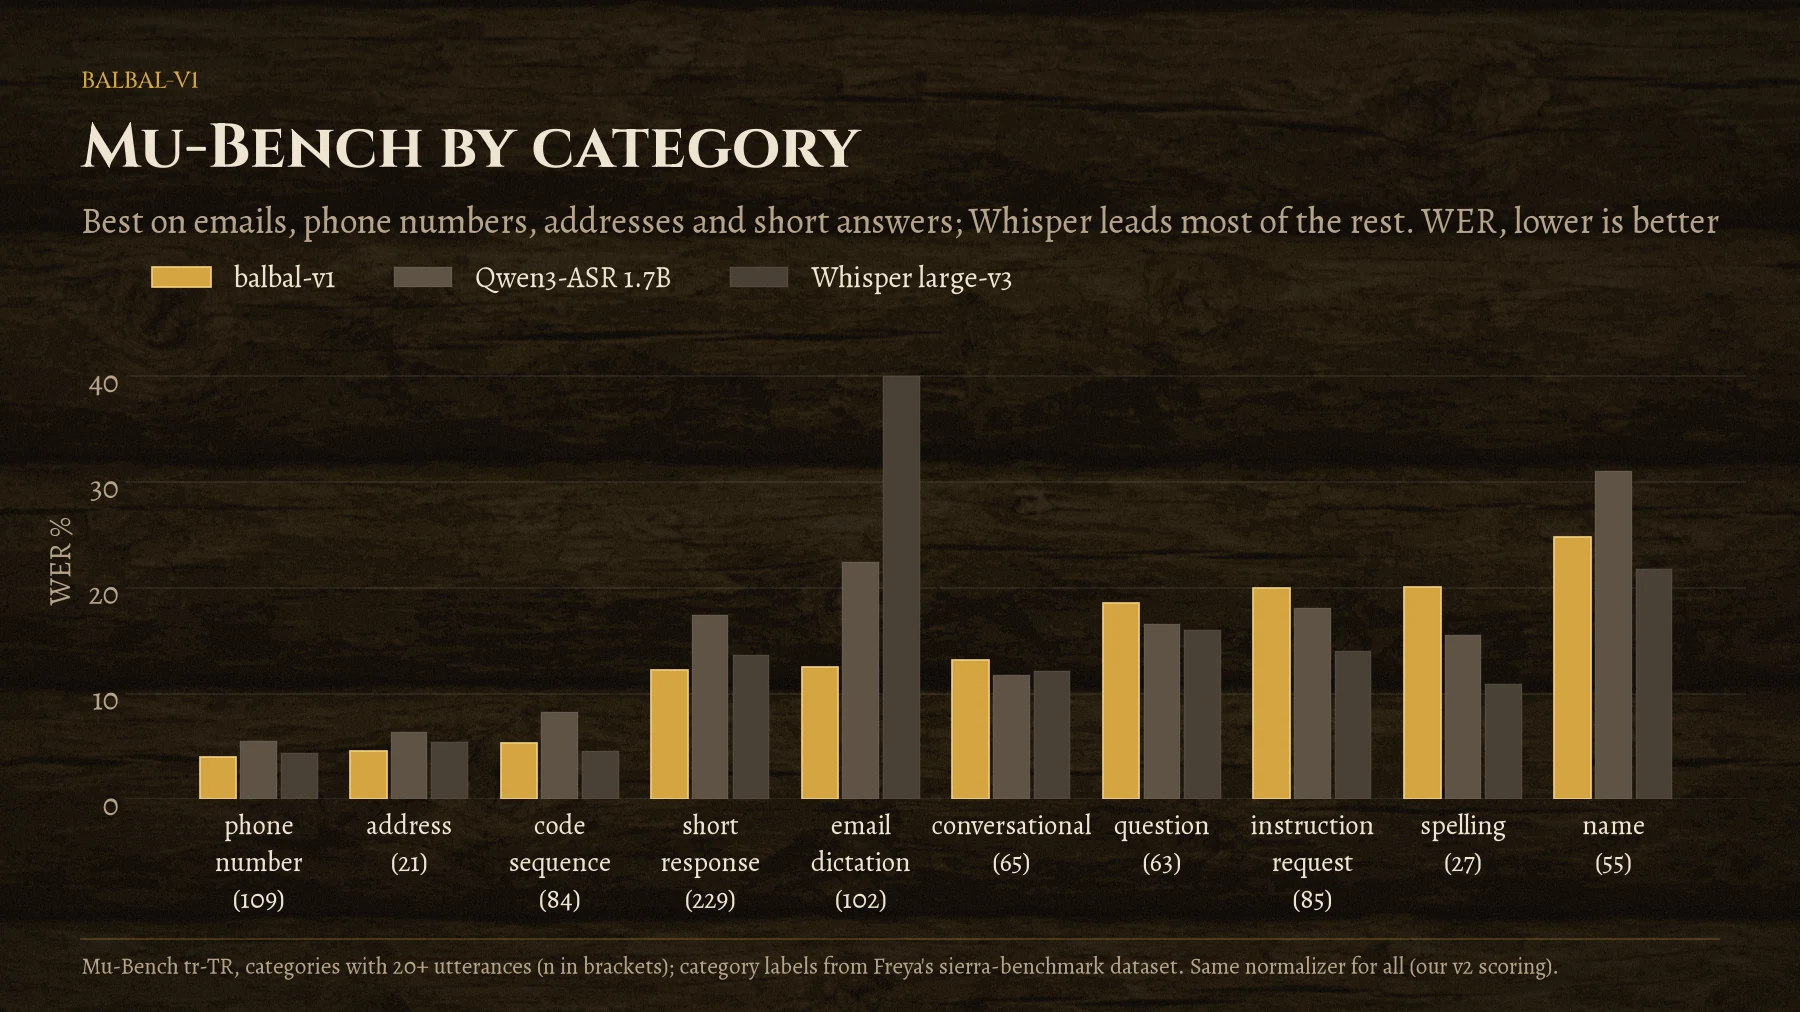
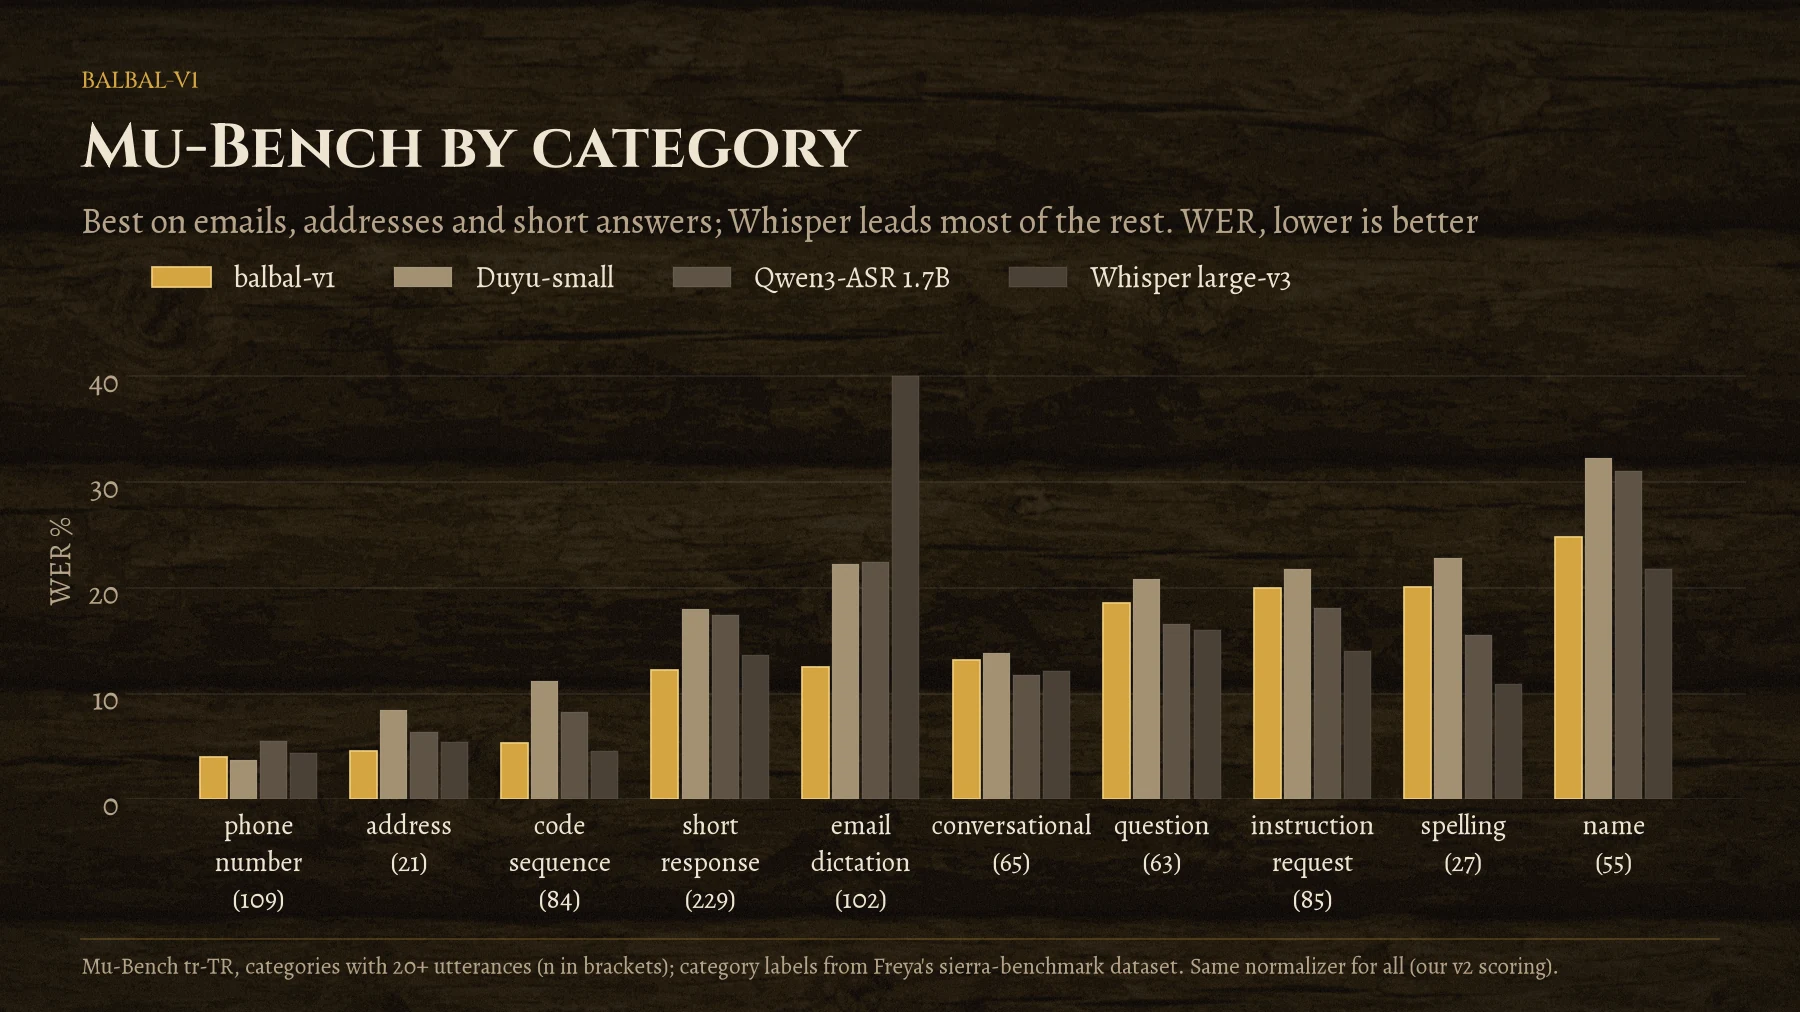
balbal: add Duyu-small to charts, official Mu-Bench score

diff --git a/balbal-blog/index.html b/balbal-blog/index.html
@@ -381,7 +381,7 @@ document.addEventListener('click', e => {
   </figure>
   <h3>Diğer modellerle karşılaştırma</h3>
   <p>Açık ağırlıklı modellerin hepsini aynı klipler ve v2 kuralıyla kendim çalıştırdım. Mu-Bench'te (v2, ITN'siz) balbal-v1 <strong>%11,78</strong> ile hepsinin önünde. En yakın rakipler Qwen3-ASR 1.7B (%13,95) ve Whisper large-v3 (%14,92); ikisi de yüz kat büyük. FLEURS'ta durum farklı: Whisper large-v3 (%3,71) ve turbo (%4,07) açık ara önde. balbal-v1'in %6,54'ü Qwen3-ASR 1.7B (%6,52) ile aynı düzeyde. FLEURS temiz, okunmuş Wikipedia cümlelerinden oluşuyor ve büyük modellerin geniş dünya bilgisi burada daha çok işe yarıyor.</p>
-  <p>Sonradan bir model daha ekledim: <a href="https://huggingface.co/KaanAydinli/Duyu-small" target="_blank" rel="noopener">Duyu-small</a>. Türkçe ve İngilizce tanıyan, 19,3 milyon aktif parametreli açık ağırlıklı bir model. Model kartına göre kodlayıcı tasarımı (paylaşımlı geçişler ve seyrek akustik bellek) balbal'dan alınmış; üstüne dikkat tabanlı bir çözücü ve iki dilli bir sözlük eklenmiş. Aynı klipler ve v2 kuralıyla Mu-Bench'te <strong>%15,39</strong>, FLEURS'ta <strong>%6,62</strong> hata yapıyor. Duyu-small grafiklerde yok; sayıları aşağıdaki tablolarda.</p>
+  <p>Sonradan bir model daha ekledim: <a href="https://huggingface.co/KaanAydinli/Duyu-small" target="_blank" rel="noopener">Duyu-small</a>. Türkçe ve İngilizce tanıyan, 19,3 milyon aktif parametreli açık ağırlıklı bir model. Model kartına göre kodlayıcı tasarımı (paylaşımlı geçişler ve seyrek akustik bellek) balbal'dan alınmış; üstüne dikkat tabanlı bir çözücü ve iki dilli bir sözlük eklenmiş. Aynı klipler ve v2 kuralıyla Mu-Bench'te <strong>%15,39</strong>, FLEURS'ta <strong>%6,62</strong> hata yapıyor. Resmi Mu-Bench değerlendirmesinde (GPT-4.1 hakemli) kelime hata oranı <strong>%15,70</strong>, ciddi hata oranı %35,22 (balbal-v1: %11,93 ve %25,18).</p>
   <figure>
     <img src="/balbal/img/2-mubench-open-models.webp" alt="Mu-Bench'te diğer modellerin v2 WER karşılaştırması; balbal-v1 en düşük hata oranıyla en üstte." loading="lazy" width="1800" height="1012">
     <figcaption><b>Mu-Bench, diğer modeller (v2 puanlama).</b> Her model aynı 846 klip üzerinde aynı kuralla puanlandı.</figcaption>
@@ -395,8 +395,8 @@ document.addEventListener('click', e => {
   <h3>Kategori bazında</h3>
   <p>Kategoriler Mu-Bench'in kendisinden gelmiyor. Freya'nın aynı ses ve metinleri içeren <a href="https://huggingface.co/datasets/freyavoice/sierra-benchmark" target="_blank" rel="noopener">sierra-benchmark</a> veri setindeki kategori etiketlerini kullandım. balbal-v1 telefon numaralarında (%3,96), adreslerde (%4,53) ve kod dizilerinde (%5,34) güçlü. İsimler (%24,84), harf harf okuma (%20,06) ve istek cümleleri (%19,98) hâlâ zayıf noktaları.</p>
   <figure>
-    <img src="/balbal/img/7-mubench-categories.webp" alt="Mu-Bench kategorilerine göre WER: balbal-v1, Qwen3-ASR ve Whisper large-v3 karşılaştırması." loading="lazy" width="1800" height="1012">
-    <figcaption><b>Mu-Bench kategorileri (v2 puanlama).</b> Kategori etiketleri Freya'nın sierra-benchmark veri setinden. Grafikte yalnızca en az 20 klibi olan kategoriler var; parantez içindeki sayılar klip sayısı. E-posta, telefon, adres ve kısa cevaplarda balbal-v1 önde; kalanların çoğunda Whisper large-v3.</figcaption>
+    <img src="/balbal/img/7-mubench-categories.webp" alt="Mu-Bench kategorilerine göre WER: balbal-v1, Duyu-small, Qwen3-ASR ve Whisper large-v3 karşılaştırması." loading="lazy" width="1800" height="1012">
+    <figcaption><b>Mu-Bench kategorileri (v2 puanlama).</b> Kategori etiketleri Freya'nın sierra-benchmark veri setinden. Grafikte yalnızca en az 20 klibi olan kategoriler var; parantez içindeki sayılar klip sayısı. E-posta, adres ve kısa cevaplarda balbal-v1 önde; telefonda Duyu-small ile neredeyse eşit (%3,96'ya %3,76). Kalanların çoğunda Whisper large-v3 önde.</figcaption>
   </figure>
   <div class="table-wrap">
     <table class="scores cats">
@@ -470,7 +470,7 @@ document.addEventListener('click', e => {
         <tr><td>Qwen3-ASR 1.7B (Modal)</td><td>13,91</td><td>14,76<small>*</small></td><td>30,61<small>*</small></td><td>—</td></tr>
         <tr><td>Qwen3-ASR 1.7B</td><td>13,95</td><td>—</td><td>—</td><td>6,52</td></tr>
         <tr><td>Whisper large-v3</td><td>14,92</td><td>—</td><td>—</td><td>3,71</td></tr>
-        <tr><td><a href="https://huggingface.co/KaanAydinli/Duyu-small" target="_blank" rel="noopener">Duyu-small</a></td><td>15,39</td><td>—</td><td>—</td><td>6,62</td></tr>
+        <tr><td><a href="https://huggingface.co/KaanAydinli/Duyu-small" target="_blank" rel="noopener">Duyu-small</a></td><td>15,39</td><td>15,70</td><td>35,22</td><td>6,62</td></tr>
         <tr><td>xAI Grok STT</td><td>15,69</td><td>15,94<small>*</small></td><td>34,04<small>*</small></td><td>—</td></tr>
         <tr><td>omniASR LLM 7B</td><td>18,35</td><td>—</td><td>—</td><td>5,31</td></tr>
         <tr><td>Microsoft Azure Speech</td><td>18,65</td><td>14,02<small>*</small></td><td>30,73<small>*</small></td><td>—</td></tr>
@@ -500,7 +500,7 @@ document.addEventListener('click', e => {
   <h2 id="hiz"><span class="n">8</span>Hız</h2>
   <p>Hızı tüm modeller için aynı yöntemle ölçtüm. 100 klip kullandım (50 FLEURS, 50 Mu-Bench). Her model 8 işlemci çekirdeğinde, batch boyutu 1 ile, klipleri tek tek işledi. Ölçülen süre, ham sesin girmesinden metnin çıkmasına kadar geçen süre: öznitelik çıkarma, ağ ve (balbal için) dil modelli ışın araması dahil. Makinenin hızı günden güne değişebildiği için bütün modelleri aynı oturumda ölçtüm.</p>
   <p>balbal-v1, ONNX Runtime (fp32) ile <strong>gerçek zamanın ~96 katı</strong> hızda çalışıyor; dört ayrı ölçüm 95,8× ile 97,3× arasında çıktı. Aynı koşullarda Whisper large-v3 0,91×, Qwen3-ASR 1.7B 0,84× hızda. Yani bu iki model işlemcide gerçek zamana bile yetişemiyor. Karşılaştırmanın tamamı yazının başındaki grafikte.</p>
-  <p><a href="https://huggingface.co/KaanAydinli/Duyu-small" target="_blank" rel="noopener">Duyu-small</a>'yi sonradan, ayrı bir oturumda aynı yöntemle ölçtüm. Modelin önerdiği ayarlarla (fp32, dikkat tabanlı çözücü, ışın 5) gerçek zamanın <strong>30 katı</strong> hızda çalışıyor. Aynı oturumda balbal-v1 108× çıktı; yani balbal-v1 yaklaşık 3,6 kat daha hızlı.</p>
+  <p><a href="https://huggingface.co/KaanAydinli/Duyu-small" target="_blank" rel="noopener">Duyu-small</a>'yi sonradan, ayrı bir oturumda aynı yöntemle ölçtüm. Modelin önerdiği ayarlarla (fp32, dikkat tabanlı çözücü, ışın 5) gerçek zamanın <strong>30 katı</strong> hızda çalışıyor. Aynı oturumda balbal-v1 108× çıktı; yani balbal-v1 yaklaşık 3,6 kat daha hızlı. Grafikte Duyu-small bu oranla diğer ölçümlerin oturumuna taşınmış halde (27×) yer alıyor.</p>
 
   <h2 id="dersler"><span class="n">9</span>Hatalar ve dersler</h2>
   <div class="lessons">
@@ -749,7 +749,7 @@ document.addEventListener('click', e => {
   </figure>
   <h3>Against other models</h3>
   <p>I ran all the open-weight models myself on the same clips with the v2 rule. On Mu-Bench (v2, no ITN) balbal-v1 leads them all with <strong>11.78%</strong>. The closest are Qwen3-ASR 1.7B (13.95%) and Whisper large-v3 (14.92%), both a hundred times larger. FLEURS is a different story: Whisper large-v3 (3.71%) and turbo (4.07%) are clearly ahead. balbal-v1's 6.54% is on par with Qwen3-ASR 1.7B (6.52%). FLEURS consists of clean, read Wikipedia sentences, where the broad world knowledge of large models helps more.</p>
-  <p>One more model, added later: <a href="https://huggingface.co/KaanAydinli/Duyu-small" target="_blank" rel="noopener">Duyu-small</a>, an open-weight Turkish + English model with 19.3 million active parameters. Its model card says its encoder design (shared passes and the sparse acoustic memory) is taken from balbal, with an attention decoder and a bilingual vocabulary added on top. On the same clips with the v2 rule it scores <strong>15.39%</strong> on Mu-Bench and <strong>6.62%</strong> on FLEURS. Duyu-small is not in the charts; its numbers are in the tables below.</p>
+  <p>One more model, added later: <a href="https://huggingface.co/KaanAydinli/Duyu-small" target="_blank" rel="noopener">Duyu-small</a>, an open-weight Turkish + English model with 19.3 million active parameters. Its model card says its encoder design (shared passes and the sparse acoustic memory) is taken from balbal, with an attention decoder and a bilingual vocabulary added on top. On the same clips with the v2 rule it scores <strong>15.39%</strong> on Mu-Bench and <strong>6.62%</strong> on FLEURS. In the official Mu-Bench evaluation (GPT-4.1 judge) it gets <strong>15.70%</strong> WER and 35.22% significant WER (balbal-v1: 11.93% and 25.18%).</p>
   <figure>
     <img src="/balbal/img/2-mubench-open-models.webp" alt="v2 WER of other models on Mu-Bench; balbal-v1 at the top with the lowest error rate." loading="lazy" width="1800" height="1012">
     <figcaption><b>Mu-Bench, other models (v2 scoring).</b> Every model was scored on the same 846 clips with the same rule.</figcaption>
@@ -763,8 +763,8 @@ document.addEventListener('click', e => {
   <h3>By category</h3>
   <p>The categories do not come from Mu-Bench itself. I used the category labels from Freya's <a href="https://huggingface.co/datasets/freyavoice/sierra-benchmark" target="_blank" rel="noopener">sierra-benchmark</a> dataset, which contains the same audio and text. balbal-v1 is strong on phone numbers (3.96%), addresses (4.53%) and code sequences (5.34%). Names (24.84%), spelling (20.06%) and instruction requests (19.98%) are still its weak spots.</p>
   <figure>
-    <img src="/balbal/img/7-mubench-categories.webp" alt="Mu-Bench WER by category: balbal-v1 versus Qwen3-ASR and Whisper large-v3." loading="lazy" width="1800" height="1012">
-    <figcaption><b>Mu-Bench categories (v2 scoring).</b> Category labels from Freya's sierra-benchmark dataset. Only categories with at least 20 clips are shown; numbers in brackets are clip counts. balbal-v1 leads on email, phone numbers, addresses and short answers; Whisper large-v3 leads most of the rest.</figcaption>
+    <img src="/balbal/img/7-mubench-categories.webp" alt="Mu-Bench WER by category: balbal-v1 versus Duyu-small, Qwen3-ASR and Whisper large-v3." loading="lazy" width="1800" height="1012">
+    <figcaption><b>Mu-Bench categories (v2 scoring).</b> Category labels from Freya's sierra-benchmark dataset. Only categories with at least 20 clips are shown; numbers in brackets are clip counts. balbal-v1 leads on email, addresses and short answers and is about even with Duyu-small on phone numbers (3.96% vs 3.76%); Whisper large-v3 leads most of the rest.</figcaption>
   </figure>
   <div class="table-wrap">
     <table class="scores cats">
@@ -838,7 +838,7 @@ document.addEventListener('click', e => {
         <tr><td>Qwen3-ASR 1.7B (Modal)</td><td>13.91</td><td>14.76<small>*</small></td><td>30.61<small>*</small></td><td>—</td></tr>
         <tr><td>Qwen3-ASR 1.7B</td><td>13.95</td><td>—</td><td>—</td><td>6.52</td></tr>
         <tr><td>Whisper large-v3</td><td>14.92</td><td>—</td><td>—</td><td>3.71</td></tr>
-        <tr><td><a href="https://huggingface.co/KaanAydinli/Duyu-small" target="_blank" rel="noopener">Duyu-small</a></td><td>15.39</td><td>—</td><td>—</td><td>6.62</td></tr>
+        <tr><td><a href="https://huggingface.co/KaanAydinli/Duyu-small" target="_blank" rel="noopener">Duyu-small</a></td><td>15.39</td><td>15.70</td><td>35.22</td><td>6.62</td></tr>
         <tr><td>xAI Grok STT</td><td>15.69</td><td>15.94<small>*</small></td><td>34.04<small>*</small></td><td>—</td></tr>
         <tr><td>omniASR LLM 7B</td><td>18.35</td><td>—</td><td>—</td><td>5.31</td></tr>
         <tr><td>Microsoft Azure Speech</td><td>18.65</td><td>14.02<small>*</small></td><td>30.73<small>*</small></td><td>—</td></tr>
@@ -868,7 +868,7 @@ document.addEventListener('click', e => {
   <h2 id="speed"><span class="n">8</span>Speed</h2>
   <p>I measured speed the same way for every model. I used 100 clips (50 FLEURS, 50 Mu-Bench). Each model processed the clips one by one on 8 CPU cores with batch size 1. The measured time runs from raw audio in to text out: feature extraction, the network and (for balbal) the beam search with the language model included. Because the machine's speed can vary from day to day, I measured all models in the same session.</p>
   <p>balbal-v1 runs at <strong>~96× real time</strong> with ONNX Runtime (fp32); four separate measurements came out between 95.8× and 97.3×. Under the same conditions Whisper large-v3 runs at 0.91× and Qwen3-ASR 1.7B at 0.84×, so these two models cannot even keep up with real time on a CPU. The full comparison is in the chart at the top of this post.</p>
-  <p>I measured <a href="https://huggingface.co/KaanAydinli/Duyu-small" target="_blank" rel="noopener">Duyu-small</a> later, in a separate session, the same way. With its recommended settings (fp32, attention decoder, beam 5) it runs at <strong>30× real time</strong>. In the same session balbal-v1 ran at 108×, so balbal-v1 is about 3.6 times faster.</p>
+  <p>I measured <a href="https://huggingface.co/KaanAydinli/Duyu-small" target="_blank" rel="noopener">Duyu-small</a> later, in a separate session, the same way. With its recommended settings (fp32, attention decoder, beam 5) it runs at <strong>30× real time</strong>. In the same session balbal-v1 ran at 108×, so balbal-v1 is about 3.6 times faster. In the chart, Duyu-small is moved to the other measurements' session by that ratio (27×).</p>
 
   <h2 id="lessons"><span class="n">9</span>Mistakes and lessons</h2>
   <div class="lessons">
